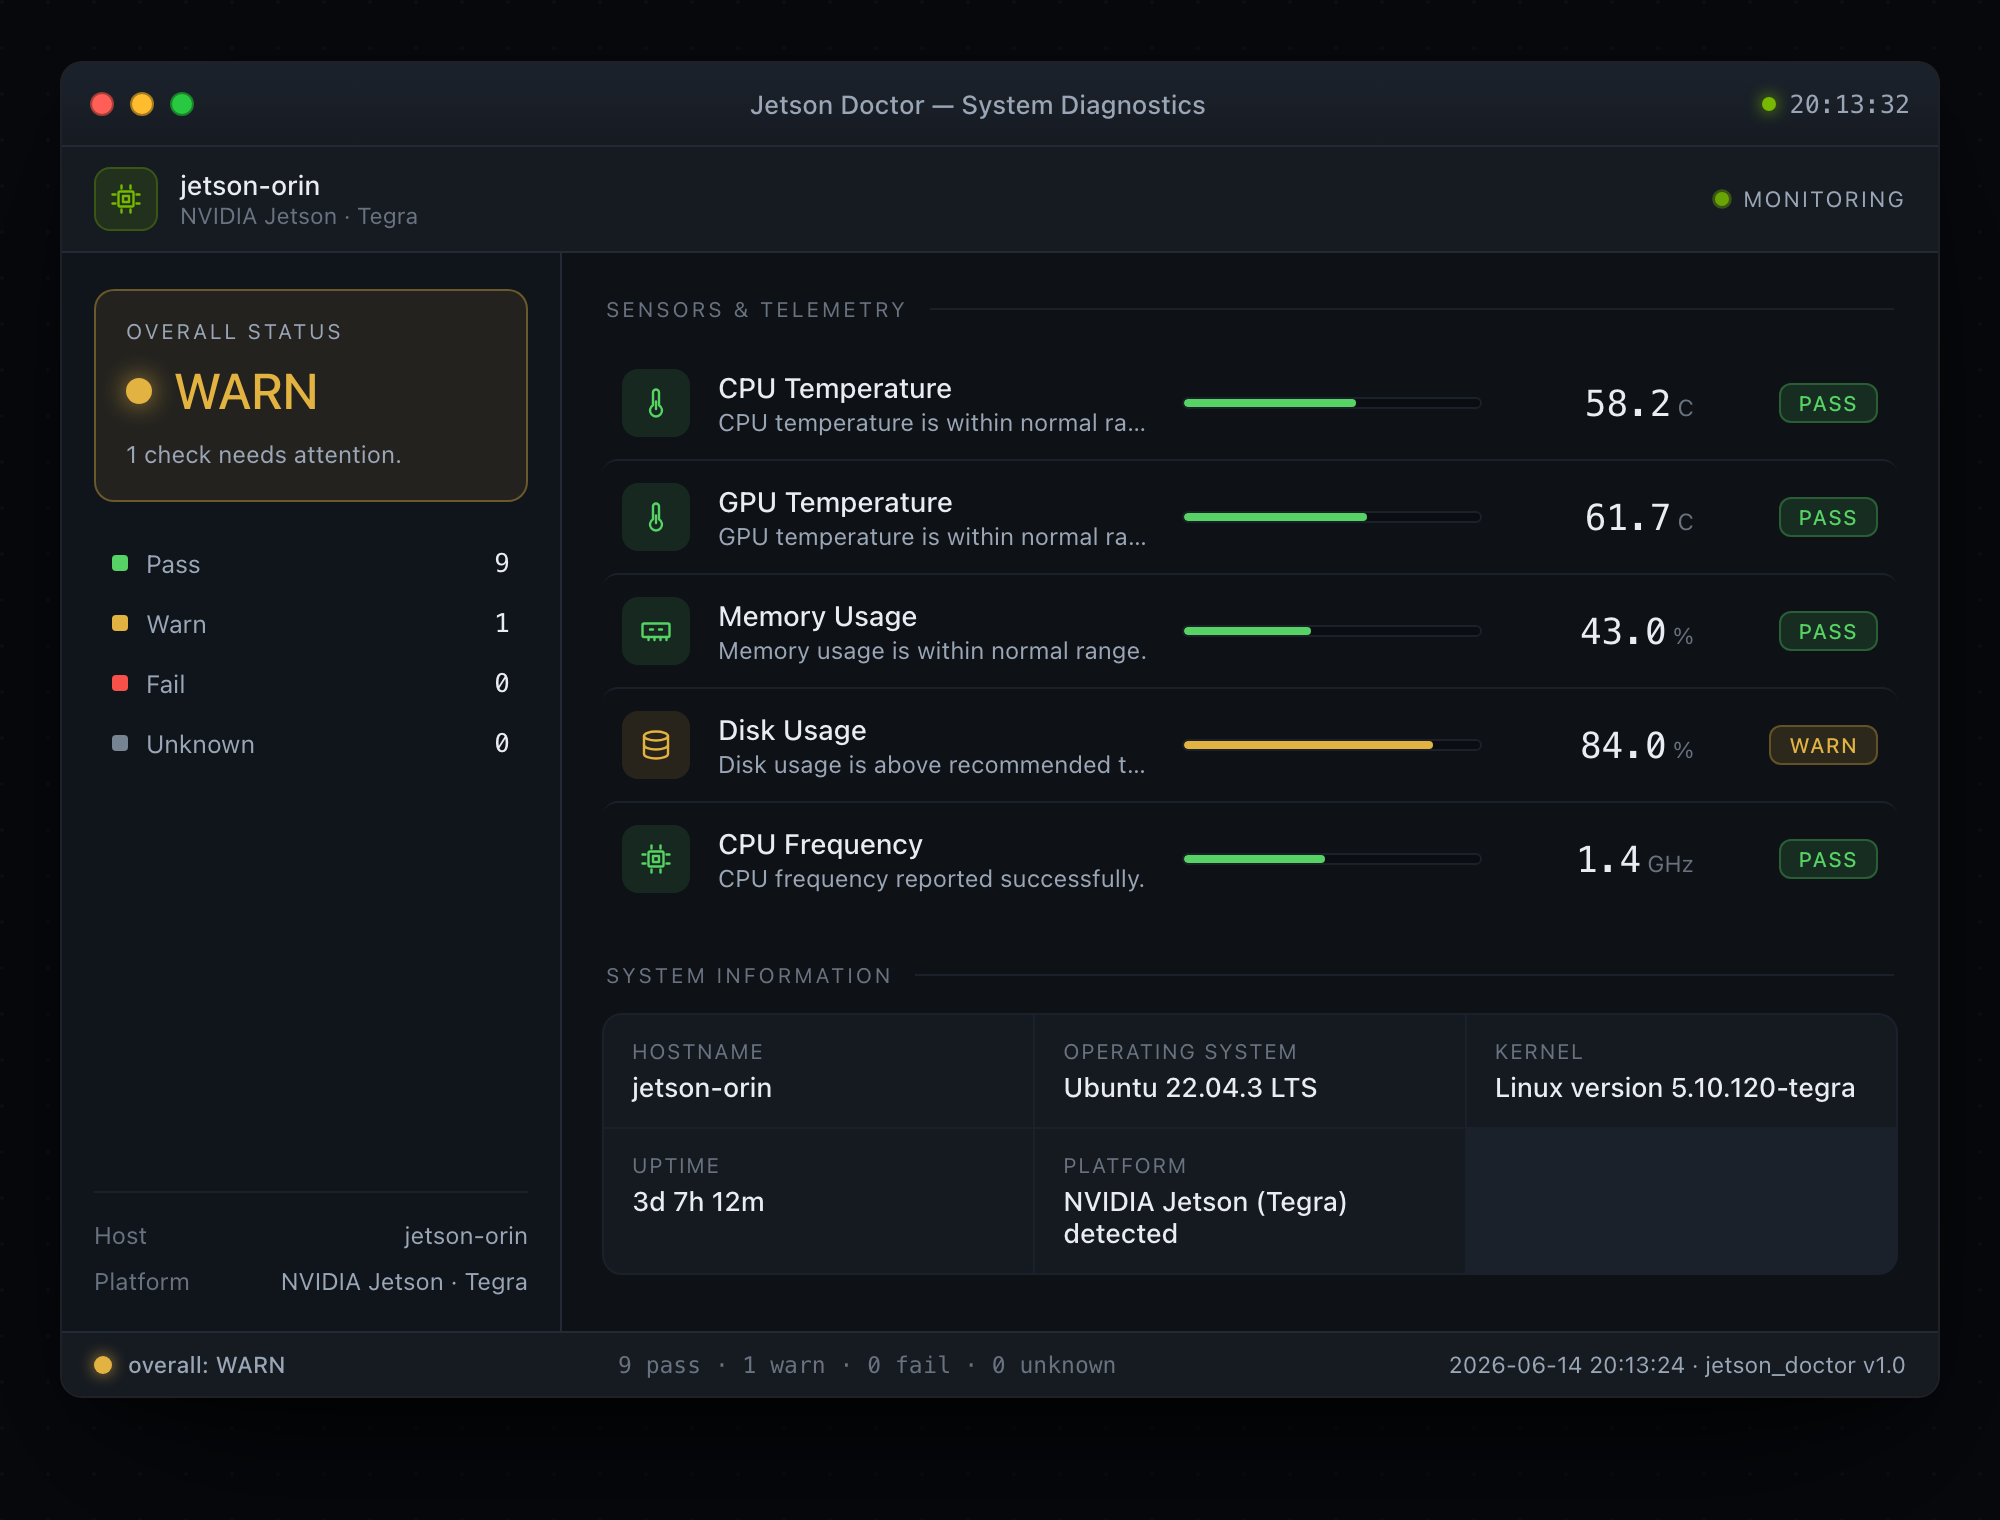
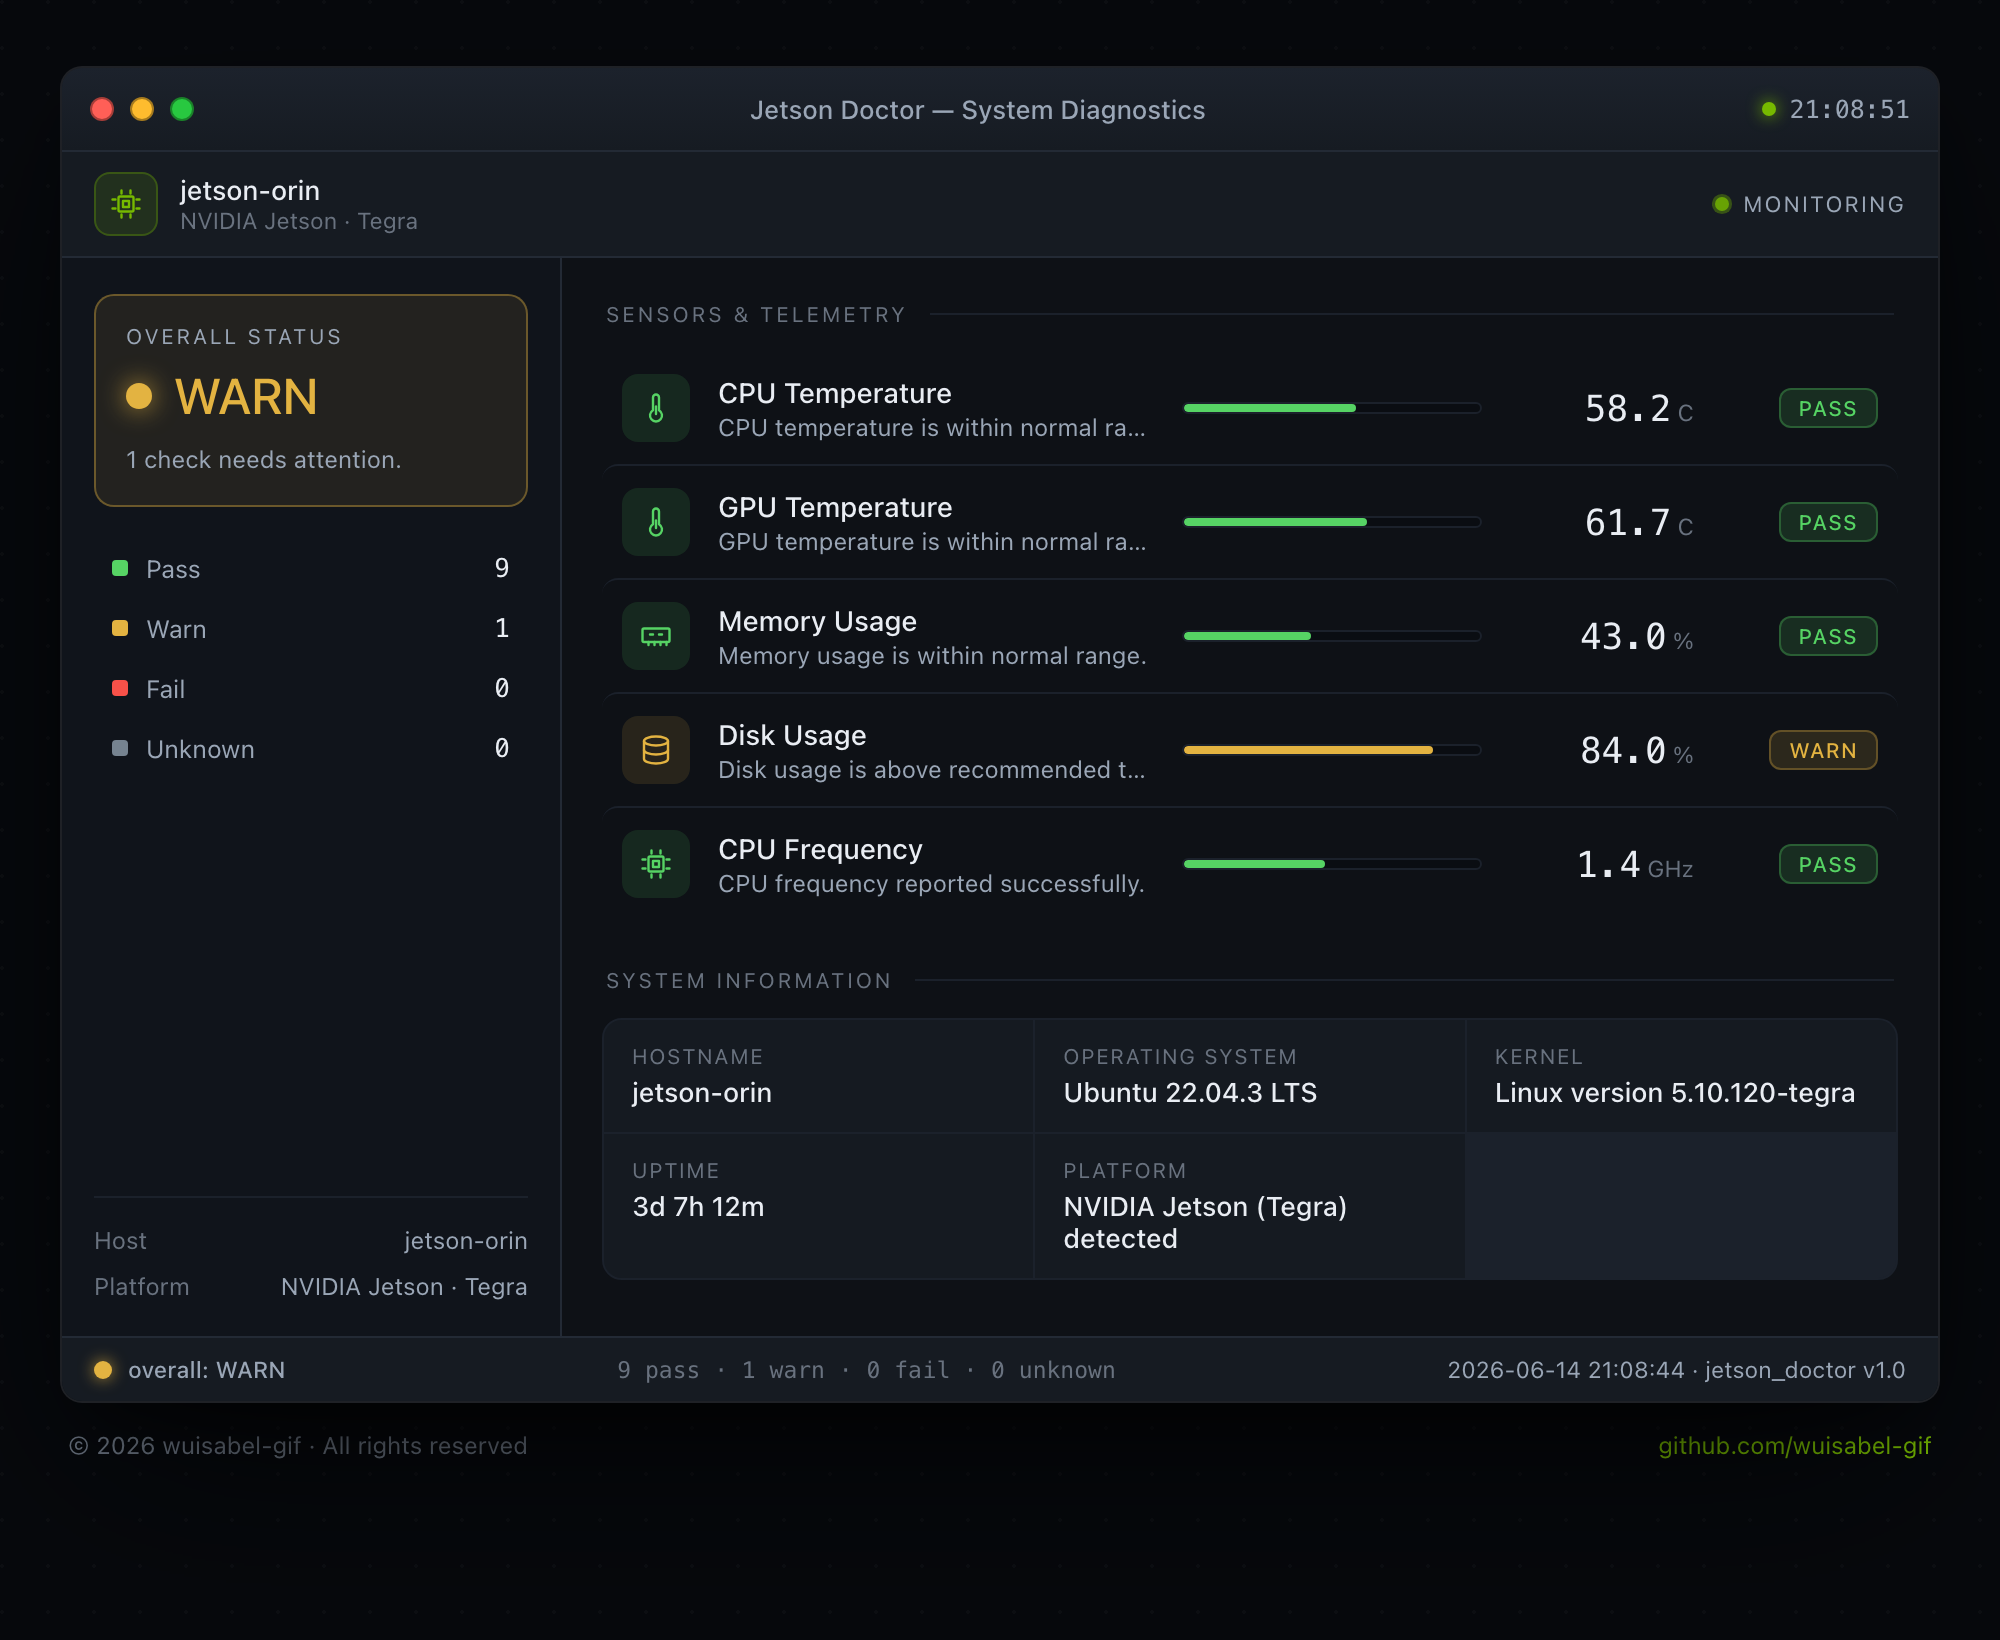
Add footer with copyright and GitHub link to HTML report
Footer below the window: '© 2026 wuisabel-gif · All rights reserved'
and a link to github.com/wuisabel-gif. Stack body vertically so the
footer sits under the window. Refresh deployed page and screenshot.

diff --git a/docs/index.html b/docs/index.html
@@ -17,8 +17,9 @@ body{
   background:var(--desktop);
   background-image:radial-gradient(circle at 1px 1px,rgba(255,255,255,.025) 1px,transparent 0);
   background-size:23px 23px;
-  color:var(--ink);min-height:100vh;display:flex;align-items:flex-start;
-  justify-content:center;padding:max(4vh,26px) 18px;-webkit-font-smoothing:antialiased;
+  color:var(--ink);min-height:100vh;display:flex;flex-direction:column;
+  align-items:center;justify-content:flex-start;padding:max(4vh,26px) 18px;
+  -webkit-font-smoothing:antialiased;
 }
 .mono{font-family:ui-monospace,"SF Mono",SFMono-Regular,"JetBrains Mono",Menlo,Consolas,monospace;font-variant-numeric:tabular-nums}
 .win{
@@ -126,7 +127,7 @@ body{
 <div class="titlebar">
   <div class="lights"><span class="lt r"></span><span class="lt y"></span><span class="lt g"></span></div>
   <div class="wtitle">Jetson Doctor — System Diagnostics</div>
-  <div class="clock"><span class="live"></span><span class="mono" id="clock">21:04:23</span></div>
+  <div class="clock"><span class="live"></span><span class="mono" id="clock">21:08:44</span></div>
 </div>
 <div class="toolbar">
   <div class="device"><span class="chip"><svg viewBox="0 0 24 24" width="18" height="18" fill="none" stroke="currentColor" stroke-width="1.6" stroke-linecap="round" stroke-linejoin="round"><rect x="7" y="7" width="10" height="10" rx="1"/><path d="M10 10h4v4h-4z"/><path d="M9 3v2M15 3v2M9 19v2M15 19v2M3 9h2M3 15h2M19 9h2M19 15h2"/></svg></span><div><div class="dn">jetson-orin</div><div class="dh">NVIDIA Jetson · Tegra</div></div></div>
@@ -202,9 +203,13 @@ body{
 <div class="statusbar">
   <span class="sb-o" style="--c:#e3b341"><span class="led"></span>overall: WARN</span>
   <span class="sb-mid mono">9 pass · 1 warn · 0 fail · 0 unknown</span>
-  <span>2026-06-14 21:04:23 · jetson_doctor v1.0</span>
+  <span>2026-06-14 21:08:44 · jetson_doctor v1.0</span>
 </div>
 </div>
+<footer style="width:100%;max-width:940px;margin:14px auto 0;padding:0 4px;display:flex;flex-wrap:wrap;gap:6px 16px;justify-content:space-between;align-items:center;font-size:12px;color:#69727f;font-family:-apple-system,BlinkMacSystemFont,'Segoe UI',Roboto,sans-serif">
+  <span>&copy; 2026 wuisabel-gif &middot; All rights reserved</span>
+  <a href="https://github.com/wuisabel-gif" target="_blank" rel="noopener noreferrer" style="color:#76b900;text-decoration:none">github.com/wuisabel-gif</a>
+</footer>
 <script>
 (function(){
   var c=document.getElementById('clock');

diff --git a/src/report_generator.cpp b/src/report_generator.cpp
@@ -271,8 +271,9 @@ body{
   background:var(--desktop);
   background-image:radial-gradient(circle at 1px 1px,rgba(255,255,255,.025) 1px,transparent 0);
   background-size:23px 23px;
-  color:var(--ink);min-height:100vh;display:flex;align-items:flex-start;
-  justify-content:center;padding:max(4vh,26px) 18px;-webkit-font-smoothing:antialiased;
+  color:var(--ink);min-height:100vh;display:flex;flex-direction:column;
+  align-items:center;justify-content:flex-start;padding:max(4vh,26px) 18px;
+  -webkit-font-smoothing:antialiased;
 }
 .mono{font-family:ui-monospace,"SF Mono",SFMono-Regular,"JetBrains Mono",Menlo,Consolas,monospace;font-variant-numeric:tabular-nums}
 .win{
@@ -493,6 +494,13 @@ body{
         << " unknown</span>\n"
         << "  <span>" << htmlEscape(ts) << " \xC2\xB7 jetson_doctor v1.0</span>\n"
         << "</div>\n</div>\n";  // close statusbar + win
+
+    // --- Footer (below the window, on the desktop backdrop) ---
+    out << R"FOOT(<footer style="width:100%;max-width:940px;margin:14px auto 0;padding:0 4px;display:flex;flex-wrap:wrap;gap:6px 16px;justify-content:space-between;align-items:center;font-size:12px;color:#69727f;font-family:-apple-system,BlinkMacSystemFont,'Segoe UI',Roboto,sans-serif">
+  <span>&copy; 2026 wuisabel-gif &middot; All rights reserved</span>
+  <a href="https://github.com/wuisabel-gif" target="_blank" rel="noopener noreferrer" style="color:#76b900;text-decoration:none">github.com/wuisabel-gif</a>
+</footer>
+)FOOT";
 
     out << R"JS(<script>
 (function(){
